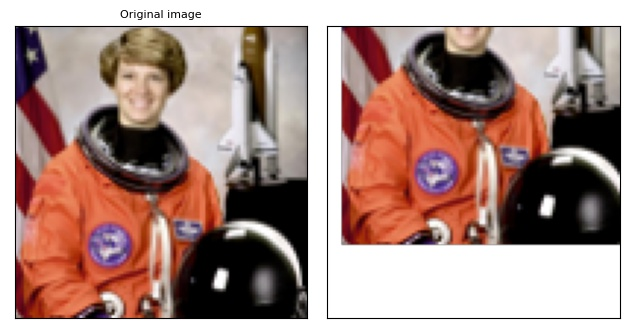
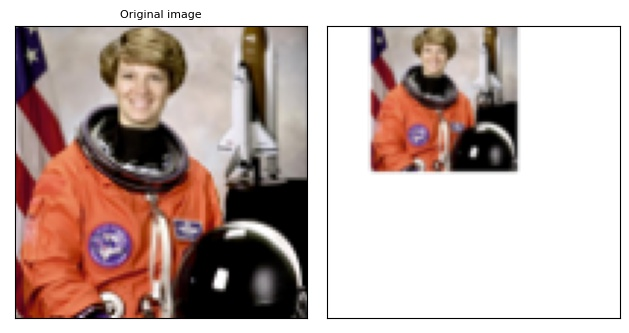
update

Changed region(s): [[0.5437, 0.0601, 0.9968, 0.7508]]

diff --git a/train.py b/train.py
@@ -4,6 +4,7 @@ from random import choices
 from turtle import left, right
 import torch
 import torch.nn as nn
+import random
 import torch.nn.functional as F
 import torch.optim as optim
 from torchvision import datasets, transforms
@@ -12,6 +13,22 @@ import argparse
 from model import Net, Net1, Net2, Net3
 from tools import print_msg, create_floder
 import datetime
+
+#generate a random translate on Mnist dataset
+def randomTranslateMnist(i):
+    left = random.randint(-28,0) #mnist size 28*28
+    right = random.randint(-28-left,0)
+    top = random.randint(-28,0)
+    bot = random.randint(-28-top,0)
+    return F.crop(i, left = left, top = top, height = 28+(-1)*top+(-1)*bot, width = 28+(-1)*left+(-1)*right)
+#generate a random translate on Cifar dataset
+def randomTranslateCifar(i):
+    left = random.randint(-32,0) #cifar size 32*32
+    right = random.randint(-32-left,0)
+    top = random.randint(-32,0)
+    bot = random.randint(-32-top,0)
+    return F.crop(i, left = left, top = top, height = 32+(-1)*top+(-1)*bot, width = 32+(-1)*left+(-1)*right)
+
 
 def load_data(args1, args2, dataset, status):
     if dataset == "mnist":
@@ -23,15 +40,22 @@ def load_data(args1, args2, dataset, status):
         elif status == 5:
             transform=transforms.Compose([
                 transforms.ToTensor(),
-                transforms.RandomPerspective(distortion_scale=0.5, p=0.5),
                 transforms.Normalize((0.1307,), (0.3081,)),
+                transforms.RandomPerspective(distortion_scale=0.5, p=0.5)
                 ])
         elif status == 6:
             transform=transforms.Compose([
                 transforms.ToTensor(),
-                transforms.RandomAffine(degrees=0, translate=(0.5,0.5), scale=(0.6,0.65)),
                 transforms.Normalize((0.1307,), (0.3081,)),
+                transforms.RandomAffine(degrees=0, translate=(0.5,0.5), scale=(0.6,0.65))
                 ])
+        elif status == 7:
+            transform=transforms.Compose([
+                transforms.ToTensor(),
+                transforms.Normalize((0.1307,), (0.3081,)),
+                transforms.Lambda(randomTranslateMnist),
+                transforms.Resize(28)
+            ])
         dataset1 = datasets.MNIST('../data', train=True, download=True,
                         transform=transform)
         dataset2 = datasets.MNIST('../data', train=False,
@@ -47,33 +71,40 @@ def load_data(args1, args2, dataset, status):
         elif status == 1:
             transform=transforms.Compose([
                 transforms.ToTensor(),
+                transforms.Normalize((0.4914, 0.4822, 0.4465), (0.247, 0.243, 0.261)),
                 transforms.RandomHorizontalFlip(p=0.5),
-                transforms.Normalize((0.4914, 0.4822, 0.4465), (0.247, 0.243, 0.261))
                 ])      
         elif status == 2:
             transform=transforms.Compose([
                 transforms.ToTensor(),
-                transforms.RandomVerticalFlip(p=0.5),
-                transforms.Normalize((0.4914, 0.4822, 0.4465), (0.247, 0.243, 0.261))
+                transforms.Normalize((0.4914, 0.4822, 0.4465), (0.247, 0.243, 0.261)),
+                transforms.RandomVerticalFlip(p=0.5)
                 ])  
         elif status == 3:
             transform=transforms.Compose([
                 transforms.ToTensor(),
-                transforms.RandomRotation(degrees=(0, 180)),
-                transforms.Normalize((0.4914, 0.4822, 0.4465), (0.247, 0.243, 0.261))
+                transforms.Normalize((0.4914, 0.4822, 0.4465), (0.247, 0.243, 0.261)),
+                transforms.RandomRotation(degrees=(0, 180))
                 ])
         elif status == 4:
             transform=transforms.Compose([
                 transforms.ToTensor(),
+                transforms.Normalize((0.4914, 0.4822, 0.4465), (0.247, 0.243, 0.261)),
                 transforms.RandomVerticalFlip(p=0.5),
                 transforms.RandomHorizontalFlip(p=0.5),
-                transforms.Normalize((0.4914, 0.4822, 0.4465), (0.247, 0.243, 0.261))
                 ])
         elif status == 6:
             transform=transforms.Compose([
                 transforms.ToTensor(),
                 transforms.Normalize((0.4914, 0.4822, 0.4465), (0.247, 0.243, 0.261)),
                 transforms.RandomAffine(degrees=0, translate=(0.5,0.5), scale=(0.6,0.65)),
+                transforms.Resize(32)
+            ])
+        elif status == 7:
+            transform=transforms.Compose([
+                transforms.ToTensor(),
+                transforms.Normalize((0.4914, 0.4822, 0.4465), (0.247, 0.243, 0.261)),
+                transforms.Lambda(randomTranslateCifar),
                 transforms.Resize(32)
             ])
         dataset1 = datasets.CIFAR10('../data', train=True, download=True,

diff --git a/testpad.py b/testpad.py
@@ -60,12 +60,17 @@ def padf(size=100):
 bd = padf()
 print(bd)
 #padded_imgs = [T.Pad(padding=padding)(orig_img) for padding in bd]
+def crop_my_image(image):
+    """Crop the images so only a specific region of interest is shown to my PyTorch model"""
+    left=-30
+    return T.functional.crop(image, left=left, top=0, height=200, width=200)
 
-
-padded_imgs = [T.RandomAffine(degrees=0, translate=(.1,.3), scale=(1.0,1.0))(orig_img)]
+padded_imgs = [T.Lambda(crop_my_image)(orig_img)]
+# padded_imgs = [T.RandomCrop(size=150, padding=50)(orig_img)]
 
 for x in padded_imgs:
     print(x.size)
+
 
 
 padded_imgs = [T.Resize(100)(img) for img in padded_imgs]
